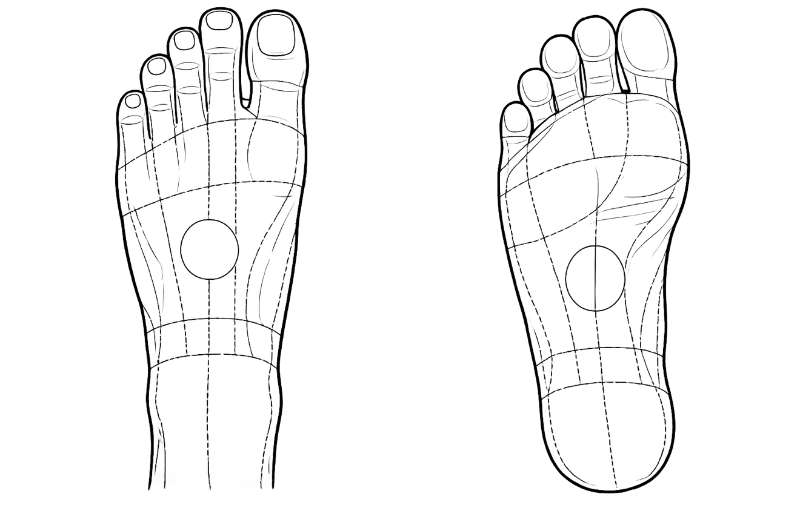
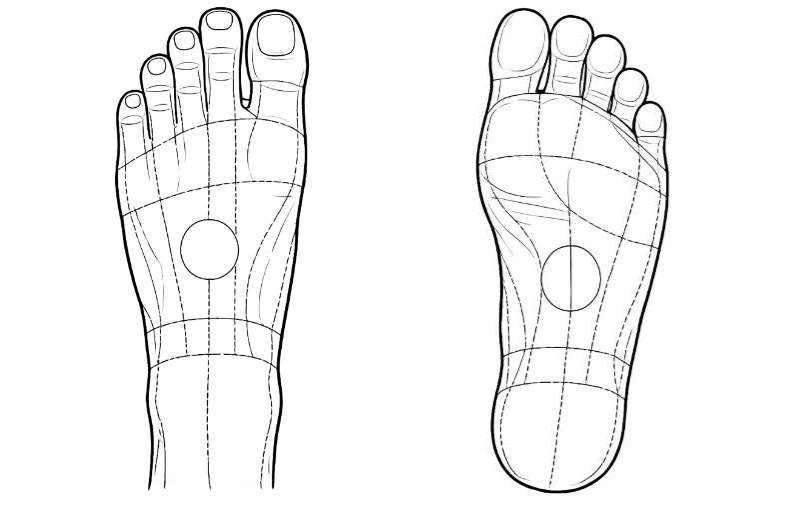
v262: pés com nova imagem e redesign dos ícones principais (estilo iOS)
Pés:
- Imagens pe-d.jpg e pe-e.jpg substituídas (usuário trocou pelas versões
  novas com layout anatomicamente correto).
- Análise dos dedos:
  • Vista 1 (lado esq da imagem): dedão à DIREITA, ordem [esq→dir]:
    mínimo, 4º, 3º, 2º, dedão.
  • Vista 2 (lado dir da imagem): dedão à ESQUERDA, ordem [esq→dir]:
    dedão, 2º, 3º, 4º, mínimo.
  Padrão é idêntico em ambos os pés (D e E).
- Pé D: v1=sola, v2=peito | Pé E: v1=peito, v2=sola
- POS_PE_D, POS_PE_E recalculados para o PDF/DOCX caírem nos dedos certos.

Ícones (estilo iOS 18+):
- 12 ícones principais redesenhados: 📋, 📍, 🧪, 💀, 🚗, 🖼, 📷, 👥, 🏠,
  📝, 🩹, ☠, 🔍, 🔒, 🔬.
- Novo padrão: squircle (rect rx=22) com gradiente vibrante por categoria
  (azul/vermelho/roxo/cinza/verde/laranja/amarelo/indigo/pink), símbolo
  branco sólido, sem outline cinza. Cantos super-arredondados.
- 🩸 (gota de sangue): cor vermelho-azul antiga removida; agora gota branca
  sobre squircle azul (água/fluido neutro) — sem associação visual com
  sangue agressivo.
- Ícones secundários (🛤, 🛣, 📄, 📂, 🏷, 🚦, 🌳, 🏢, 👤, 👔, 💾, ✏,
  🏥, 🏘) ainda no estilo antigo — pendente próxima iteração se aprovado.

Changed region(s): [[0.5938, 0.0, 0.875, 0.9802]]

diff --git a/src/App.jsx b/src/App.jsx
@@ -53,7 +53,7 @@ import html2pdf from "html2pdf.js";
 import JSZip from "jszip"; // v241: reintroduzido — saveCroquiDocx ainda usa (migração para fflate fica para a v242)
 import { zip as fflateZip, strToU8, unzipSync, strFromU8 } from "fflate";
 import DOMPurify from "dompurify"; // v242: sanitização extra antes do dangerouslySetInnerHTML do pdf-preview
-const APP_VERSION="v261-Xandroid";
+const APP_VERSION="v262-Xandroid";
 // v221+: storage migrado para IndexedDB. Não há mais cap de tamanho — o app
 // usa a quota real do dispositivo, lida em runtime via navigator.storage.estimate().
 // O valor abaixo é apenas um PLACEHOLDER inicial para o medidor de UI antes da
@@ -100,7 +100,7 @@ const IMG_H={anterior:"/img/anatomy/h-anterior.jpg",posterior:"/img/anatomy/h-po
 const IMG_M={anterior:"/img/anatomy/m-anterior.png",posterior:"/img/anatomy/m-posterior.png",latD:"/img/anatomy/m-lat-d.png",latE:"/img/anatomy/m-lat-e.png",cabeca:"/img/anatomy/m-cabeca.jpg"};
 const IMG_MAO_D="/img/anatomy/mao-d.png";
 const IMG_MAO_E="/img/anatomy/mao-e.png";
-const IMG_PE_D="/img/anatomy/pe-d.png";
+const IMG_PE_D="/img/anatomy/pe-d.jpg";
 const IMG_PE_E="/img/anatomy/pe-e.jpg";
 const bodyImgs=(sx)=>sx==="Feminino"?IMG_M:IMG_H;
 
@@ -591,39 +591,39 @@ class TabErrorBoundary extends React.Component{constructor(p){super(p);this.stat
 // Cada emoji das 7 tabs tem um SVG correspondente em estilo consistente:
 // fundo circular gradiente azul-marinho, glyph branco-cinza, detalhe azul ciano.
 const APP_ICONS={
-"📋":(<svg viewBox="0 0 100 100" width="100%" height="100%" style={{display:"block"}}><defs><radialGradient id="apg0" cx="50%" cy="40%"><stop offset="0%" stopColor="#1a4a7a"/><stop offset="100%" stopColor="#0a2540"/></radialGradient></defs><circle cx="50" cy="50" r="48" fill="url(#apg0)"/><rect x="32" y="26" width="36" height="48" rx="3" fill="#f8f8fa" stroke="#a1a1a6" strokeWidth="1"/><rect x="40" y="22" width="20" height="8" rx="2" fill="#5ac8fa"/><line x1="38" y1="40" x2="62" y2="40" stroke="#8e8e93" strokeWidth="1.5"/><line x1="38" y1="48" x2="62" y2="48" stroke="#8e8e93" strokeWidth="1.5"/><line x1="38" y1="56" x2="55" y2="56" stroke="#8e8e93" strokeWidth="1.5"/><line x1="38" y1="64" x2="58" y2="64" stroke="#8e8e93" strokeWidth="1.5"/></svg>),
-"📍":(<svg viewBox="0 0 100 100" width="100%" height="100%" style={{display:"block"}}><defs><radialGradient id="apg1" cx="50%" cy="40%"><stop offset="0%" stopColor="#1a4a7a"/><stop offset="100%" stopColor="#0a2540"/></radialGradient></defs><circle cx="50" cy="50" r="48" fill="url(#apg1)"/><path d="M50 22 C38 22 30 30 30 42 C30 56 50 76 50 76 C50 76 70 56 70 42 C70 30 62 22 50 22 Z" fill="#f8f8fa" stroke="#a1a1a6" strokeWidth="1"/><circle cx="50" cy="42" r="7" fill="#5ac8fa"/></svg>),
-"🧪":(<svg viewBox="0 0 100 100" width="100%" height="100%" style={{display:"block"}}><defs><radialGradient id="apg2" cx="50%" cy="40%"><stop offset="0%" stopColor="#1a4a7a"/><stop offset="100%" stopColor="#0a2540"/></radialGradient><linearGradient id="apg2L" x1="0%" y1="0%" x2="0%" y2="100%"><stop offset="0%" stopColor="#7ad6fb"/><stop offset="100%" stopColor="#2aa8e0"/></linearGradient></defs><circle cx="50" cy="50" r="48" fill="url(#apg2)"/><path d="M38 20 L62 20 L62 28 L58 28 L58 72 A10 10 0 0 1 42 72 L42 28 L38 28 Z" fill="#ffffff" stroke="#0a2540" strokeWidth="1.5"/><path d="M42 50 L58 50 L58 72 A10 10 0 0 1 42 72 Z" fill="url(#apg2L)"/><ellipse cx="50" cy="52" rx="8" ry="1.5" fill="#ffffff" opacity="0.6"/><circle cx="48" cy="64" r="1.8" fill="#ffffff" opacity="0.8"/><circle cx="53" cy="60" r="1.2" fill="#ffffff" opacity="0.7"/><circle cx="51" cy="68" r="1" fill="#ffffff" opacity="0.6"/></svg>),
+"📋":(<svg viewBox="0 0 100 100" width="100%" height="100%" style={{display:"block"}}><defs><linearGradient id="apg0" x1="0%" y1="0%" x2="0%" y2="100%"><stop offset="0%" stopColor="#5AC8FA"/><stop offset="100%" stopColor="#0A84FF"/></linearGradient></defs><rect x="6" y="6" width="88" height="88" rx="22" fill="url(#apg0)"/><rect x="30" y="24" width="40" height="54" rx="6" fill="#fff"/><rect x="40" y="20" width="20" height="10" rx="3" fill="#fff" stroke="#0A84FF" strokeWidth="2"/><line x1="38" y1="42" x2="62" y2="42" stroke="#0A84FF" strokeWidth="2.5" strokeLinecap="round"/><line x1="38" y1="52" x2="62" y2="52" stroke="#0A84FF" strokeWidth="2.5" strokeLinecap="round"/><line x1="38" y1="62" x2="56" y2="62" stroke="#0A84FF" strokeWidth="2.5" strokeLinecap="round"/></svg>),
+"📍":(<svg viewBox="0 0 100 100" width="100%" height="100%" style={{display:"block"}}><defs><linearGradient id="apg1" x1="0%" y1="0%" x2="0%" y2="100%"><stop offset="0%" stopColor="#FF453A"/><stop offset="100%" stopColor="#C7000B"/></linearGradient></defs><rect x="6" y="6" width="88" height="88" rx="22" fill="url(#apg1)"/><path d="M50 18 C36 18 26 28 26 42 C26 58 50 82 50 82 C50 82 74 58 74 42 C74 28 64 18 50 18 Z" fill="#fff"/><circle cx="50" cy="42" r="8" fill="#FF453A"/></svg>),
+"🧪":(<svg viewBox="0 0 100 100" width="100%" height="100%" style={{display:"block"}}><defs><linearGradient id="apg2" x1="0%" y1="0%" x2="0%" y2="100%"><stop offset="0%" stopColor="#BF5AF2"/><stop offset="100%" stopColor="#8944AB"/></linearGradient></defs><rect x="6" y="6" width="88" height="88" rx="22" fill="url(#apg2)"/><path d="M40 16 L60 16 L60 26 L56 26 L56 70 A12 12 0 0 1 44 78 A12 12 0 0 1 32 70 Q32 62 36 56 L44 26 L40 26 Z" fill="#fff"/><path d="M34 56 L66 56 L62 70 A12 12 0 0 1 50 78 A12 12 0 0 1 38 70 Z" fill="#FFD60A" opacity="0.85"/><circle cx="46" cy="66" r="2" fill="#fff" opacity="0.8"/><circle cx="54" cy="62" r="1.5" fill="#fff" opacity="0.7"/></svg>),
 "🏥":(<svg viewBox="0 0 100 100" width="100%" height="100%" style={{display:"block"}}><defs><radialGradient id="apg3" cx="50%" cy="40%"><stop offset="0%" stopColor="#1a4a7a"/><stop offset="100%" stopColor="#0a2540"/></radialGradient></defs><circle cx="50" cy="50" r="48" fill="url(#apg3)"/><path d="M50 22 C36 22 26 32 26 47 C26 57 31 64 38 68 L38 76 Q38 80 42 80 L44 80 L44 78 C44 76 45 75 47 75 C49 75 50 76 50 78 L50 80 L56 80 L56 78 C56 76 57 75 59 75 C61 75 62 76 62 78 L62 80 L64 80 Q68 80 68 76 L68 68 C75 64 80 57 80 47 C80 32 70 22 56 22 Z" fill="#f8f8fa" stroke="#a1a1a6" strokeWidth="1"/><ellipse cx="41" cy="48" rx="6" ry="7" fill="#0a2540"/><ellipse cx="61" cy="48" rx="6" ry="7" fill="#0a2540"/><circle cx="39" cy="45" r="1.4" fill="#5ac8fa"/><circle cx="59" cy="45" r="1.4" fill="#5ac8fa"/><path d="M51 56 L48 64 L51 66 L54 64 Z" fill="#0a2540"/></svg>),
-"🚗":(<svg viewBox="0 0 100 100" width="100%" height="100%" style={{display:"block"}}><defs><radialGradient id="apg4" cx="50%" cy="40%"><stop offset="0%" stopColor="#1a4a7a"/><stop offset="100%" stopColor="#0a2540"/></radialGradient></defs><circle cx="50" cy="50" r="48" fill="url(#apg4)"/><path d="M24 58 L30 44 Q32 40 37 40 L63 40 Q68 40 70 44 L76 58 L76 66 Q76 68 74 68 L72 68 Q72 72 68 72 Q64 72 64 68 L36 68 Q36 72 32 72 Q28 72 28 68 L26 68 Q24 68 24 66 Z" fill="#ffffff" stroke="#0a2540" strokeWidth="1.8"/><path d="M32 56 L34 46 Q35 44 38 44 L62 44 Q65 44 66 46 L68 56 Z" fill="#5ac8fa"/><line x1="50" y1="44" x2="50" y2="56" stroke="#ffffff" strokeWidth="1.5" opacity="0.8"/><circle cx="33" cy="66" r="5" fill="#0a2540" stroke="#ffffff" strokeWidth="1.5"/><circle cx="33" cy="66" r="2" fill="#a1a1a6"/><circle cx="67" cy="66" r="5" fill="#0a2540" stroke="#ffffff" strokeWidth="1.5"/><circle cx="67" cy="66" r="2" fill="#a1a1a6"/><rect x="26" y="56" width="4" height="3" rx="1" fill="#ffcc00"/><rect x="70" y="56" width="4" height="3" rx="1" fill="#ffcc00"/></svg>),
+"🚗":(<svg viewBox="0 0 100 100" width="100%" height="100%" style={{display:"block"}}><defs><linearGradient id="apg4" x1="0%" y1="0%" x2="0%" y2="100%"><stop offset="0%" stopColor="#34C759"/><stop offset="100%" stopColor="#248A3D"/></linearGradient></defs><rect x="6" y="6" width="88" height="88" rx="22" fill="url(#apg4)"/><path d="M22 58 L28 42 Q30 38 36 38 L64 38 Q70 38 72 42 L78 58 L78 68 Q78 72 74 72 L72 72 Q72 76 68 76 Q64 76 64 72 L36 72 Q36 76 32 76 Q28 76 28 72 L26 72 Q22 72 22 68 Z" fill="#fff"/><path d="M30 56 L34 44 Q35 42 38 42 L62 42 Q65 42 66 44 L70 56 Z" fill="#34C759"/><circle cx="34" cy="68" r="5" fill="#248A3D"/><circle cx="66" cy="68" r="5" fill="#248A3D"/></svg>),
 "💾":(<svg viewBox="0 0 100 100" width="100%" height="100%" style={{display:"block"}}><defs><radialGradient id="apg5" cx="50%" cy="40%"><stop offset="0%" stopColor="#1a4a7a"/><stop offset="100%" stopColor="#0a2540"/></radialGradient></defs><circle cx="50" cy="50" r="48" fill="url(#apg5)"/><path d="M50 24 L50 58" stroke="#f8f8fa" strokeWidth="5" strokeLinecap="round"/><path d="M36 48 L50 62 L64 48" fill="none" stroke="#5ac8fa" strokeWidth="5" strokeLinecap="round" strokeLinejoin="round"/><rect x="28" y="68" width="44" height="8" rx="2" fill="#f8f8fa"/></svg>),
 "✏":(<svg viewBox="0 0 100 100" width="100%" height="100%" style={{display:"block"}}><defs><radialGradient id="apg6" cx="50%" cy="40%"><stop offset="0%" stopColor="#1a4a7a"/><stop offset="100%" stopColor="#0a2540"/></radialGradient></defs><circle cx="50" cy="50" r="48" fill="url(#apg6)"/><path d="M62 24 L74 36 L38 72 L26 76 L30 64 Z" fill="#f8f8fa" stroke="#a1a1a6" strokeWidth="1"/><path d="M62 24 L74 36 L68 42 L56 30 Z" fill="#5ac8fa"/><path d="M30 64 L26 76 L38 72 Z" fill="#0a2540"/></svg>),
 "🏢":(<svg viewBox="0 0 100 100" width="100%" height="100%" style={{display:"block"}}><defs><radialGradient id="apg7" cx="50%" cy="40%"><stop offset="0%" stopColor="#1a4a7a"/><stop offset="100%" stopColor="#0a2540"/></radialGradient></defs><circle cx="50" cy="50" r="48" fill="url(#apg7)"/><rect x="30" y="26" width="40" height="54" fill="#f8f8fa" stroke="#a1a1a6" strokeWidth="1"/><rect x="34" y="32" width="6" height="6" fill="#5ac8fa"/><rect x="44" y="32" width="6" height="6" fill="#5ac8fa"/><rect x="54" y="32" width="6" height="6" fill="#5ac8fa"/><rect x="34" y="42" width="6" height="6" fill="#5ac8fa"/><rect x="44" y="42" width="6" height="6" fill="#5ac8fa"/><rect x="54" y="42" width="6" height="6" fill="#5ac8fa"/><rect x="34" y="52" width="6" height="6" fill="#5ac8fa"/><rect x="44" y="52" width="6" height="6" fill="#5ac8fa"/><rect x="54" y="52" width="6" height="6" fill="#5ac8fa"/><rect x="44" y="66" width="12" height="14" fill="#0a2540"/></svg>),
-"📷":(<svg viewBox="0 0 100 100" width="100%" height="100%" style={{display:"block"}}><defs><radialGradient id="apg8" cx="50%" cy="40%"><stop offset="0%" stopColor="#1a4a7a"/><stop offset="100%" stopColor="#0a2540"/></radialGradient></defs><circle cx="50" cy="50" r="48" fill="url(#apg8)"/><path d="M20 38 L30 38 L34 30 L66 30 L70 38 L80 38 Q82 38 82 40 L82 72 Q82 74 80 74 L20 74 Q18 74 18 72 L18 40 Q18 38 20 38 Z" fill="#f8f8fa" stroke="#a1a1a6" strokeWidth="1"/><circle cx="50" cy="54" r="13" fill="#0a2540"/><circle cx="50" cy="54" r="9" fill="#5ac8fa" opacity="0.85"/><circle cx="46" cy="50" r="3" fill="#fff" opacity="0.7"/><circle cx="72" cy="43" r="2" fill="#5ac8fa"/></svg>),
-"☠":(<svg viewBox="0 0 100 100" width="100%" height="100%" style={{display:"block"}}><defs><radialGradient id="apg9" cx="50%" cy="40%"><stop offset="0%" stopColor="#1a4a7a"/><stop offset="100%" stopColor="#0a2540"/></radialGradient></defs><circle cx="50" cy="50" r="48" fill="url(#apg9)"/><path d="M50 22 C36 22 26 32 26 47 C26 57 31 64 38 68 L38 74 L44 74 L44 72 C44 70 46 69 48 69 C50 69 52 70 52 72 L52 74 L58 74 L58 72 C58 70 60 69 62 69 C64 69 66 70 66 72 L66 74 L72 74 L72 68 C79 64 84 57 84 47 C84 32 74 22 60 22 Z" fill="#f8f8fa" stroke="#a1a1a6" strokeWidth="1"/><ellipse cx="41" cy="48" rx="6" ry="7" fill="#0a2540"/><ellipse cx="59" cy="48" rx="6" ry="7" fill="#0a2540"/><path d="M48 56 L45 64 L50 66 L55 64 L52 56 Z" fill="#0a2540"/><path d="M20 82 L80 82 M22 78 L26 86 M78 78 L74 86 M20 78 L24 86 M76 78 L80 86" stroke="#f8f8fa" strokeWidth="2" fill="none" strokeLinecap="round" opacity="0.7"/></svg>),
-"💀":(<svg viewBox="0 0 100 100" width="100%" height="100%" style={{display:"block"}}><defs><radialGradient id="apg10" cx="50%" cy="40%"><stop offset="0%" stopColor="#1a4a7a"/><stop offset="100%" stopColor="#0a2540"/></radialGradient></defs><circle cx="50" cy="50" r="48" fill="url(#apg10)"/><path d="M50 22 C36 22 26 32 26 47 C26 57 31 64 38 68 L38 76 Q38 80 42 80 L44 80 L44 78 C44 76 45 75 47 75 C49 75 50 76 50 78 L50 80 L56 80 L56 78 C56 76 57 75 59 75 C61 75 62 76 62 78 L62 80 L64 80 Q68 80 68 76 L68 68 C75 64 80 57 80 47 C80 32 70 22 56 22 Z" fill="#f8f8fa" stroke="#a1a1a6" strokeWidth="1"/><ellipse cx="41" cy="48" rx="6" ry="7" fill="#0a2540"/><ellipse cx="61" cy="48" rx="6" ry="7" fill="#0a2540"/><circle cx="39" cy="45" r="1.4" fill="#5ac8fa"/><circle cx="59" cy="45" r="1.4" fill="#5ac8fa"/><path d="M51 56 L48 64 L51 66 L54 64 Z" fill="#0a2540"/></svg>),
+"📷":(<svg viewBox="0 0 100 100" width="100%" height="100%" style={{display:"block"}}><defs><linearGradient id="apg8" x1="0%" y1="0%" x2="0%" y2="100%"><stop offset="0%" stopColor="#8E8E93"/><stop offset="100%" stopColor="#48484A"/></linearGradient></defs><rect x="6" y="6" width="88" height="88" rx="22" fill="url(#apg8)"/><path d="M16 36 L30 36 L34 26 L66 26 L70 36 L84 36 Q88 36 88 40 L88 76 Q88 80 84 80 L16 80 Q12 80 12 76 L12 40 Q12 36 16 36 Z" fill="#fff"/><circle cx="50" cy="56" r="14" fill="#48484A"/><circle cx="50" cy="56" r="10" fill="#8E8E93"/><circle cx="46" cy="52" r="3" fill="#fff" opacity="0.6"/><circle cx="76" cy="44" r="2.5" fill="#FF9F0A"/></svg>),
+"☠":(<svg viewBox="0 0 100 100" width="100%" height="100%" style={{display:"block"}}><defs><linearGradient id="apg9" x1="0%" y1="0%" x2="0%" y2="100%"><stop offset="0%" stopColor="#48484A"/><stop offset="100%" stopColor="#1C1C1E"/></linearGradient></defs><rect x="6" y="6" width="88" height="88" rx="22" fill="url(#apg9)"/><path d="M50 16 C34 16 22 28 22 44 C22 54 28 62 36 66 L36 74 L42 74 L42 72 C42 70 44 69 46 69 C48 69 50 70 50 72 L50 74 L56 74 L56 72 C56 70 58 69 60 69 C62 69 64 70 64 72 L64 74 L70 74 L70 66 C78 62 84 54 84 44 C84 28 72 16 56 16 Z" fill="#fff"/><ellipse cx="40" cy="46" rx="6" ry="8" fill="#1C1C1E"/><ellipse cx="60" cy="46" rx="6" ry="8" fill="#1C1C1E"/><path d="M48 54 L44 64 L50 66 L56 64 L52 54 Z" fill="#1C1C1E"/><path d="M20 82 L80 82" stroke="#fff" strokeWidth="3" strokeLinecap="round" opacity="0.8"/><path d="M28 80 L24 88 M72 80 L76 88" stroke="#fff" strokeWidth="2.5" fill="none" strokeLinecap="round" opacity="0.7"/></svg>),
+"💀":(<svg viewBox="0 0 100 100" width="100%" height="100%" style={{display:"block"}}><defs><linearGradient id="apg10" x1="0%" y1="0%" x2="0%" y2="100%"><stop offset="0%" stopColor="#8E8E93"/><stop offset="100%" stopColor="#48484A"/></linearGradient></defs><rect x="6" y="6" width="88" height="88" rx="22" fill="url(#apg10)"/><path d="M50 18 C34 18 22 30 22 46 C22 56 28 64 36 68 L36 78 Q36 82 40 82 L44 82 L44 78 C44 76 46 75 48 75 C50 75 50 76 50 78 L50 82 L56 82 L56 78 C56 76 56 75 58 75 C60 75 62 76 62 78 L62 82 L66 82 Q70 82 70 78 L70 68 C78 64 84 56 84 46 C84 30 72 18 56 18 Z" fill="#fff"/><ellipse cx="40" cy="48" rx="6" ry="8" fill="#48484A"/><ellipse cx="60" cy="48" rx="6" ry="8" fill="#48484A"/><path d="M52 60 L46 68 L50 70 L54 68 Z" fill="#48484A"/></svg>),
 "👤":(<svg viewBox="0 0 100 100" width="100%" height="100%" style={{display:"block"}}><defs><radialGradient id="apg11" cx="50%" cy="40%"><stop offset="0%" stopColor="#1a4a7a"/><stop offset="100%" stopColor="#0a2540"/></radialGradient></defs><circle cx="50" cy="50" r="48" fill="url(#apg11)"/><circle cx="50" cy="38" r="12" fill="#f8f8fa" stroke="#a1a1a6" strokeWidth="1"/><path d="M26 82 C26 68 38 58 50 58 C62 58 74 68 74 82 L74 84 L26 84 Z" fill="#f8f8fa" stroke="#a1a1a6" strokeWidth="1"/><circle cx="50" cy="38" r="3" fill="#5ac8fa" opacity="0.4"/></svg>),
-"👥":(<svg viewBox="0 0 100 100" width="100%" height="100%" style={{display:"block"}}><defs><radialGradient id="apg12" cx="50%" cy="40%"><stop offset="0%" stopColor="#1a4a7a"/><stop offset="100%" stopColor="#0a2540"/></radialGradient></defs><circle cx="50" cy="50" r="48" fill="url(#apg12)"/><circle cx="34" cy="40" r="9" fill="#f8f8fa" stroke="#a1a1a6" strokeWidth="1"/><circle cx="62" cy="38" r="10" fill="#5ac8fa" stroke="#a1a1a6" strokeWidth="1"/><path d="M18 76 C18 66 26 58 34 58 C40 58 45 62 48 66 L48 80 L18 80 Z" fill="#f8f8fa" stroke="#a1a1a6" strokeWidth="1"/><path d="M44 80 C44 68 52 58 62 58 C74 58 82 68 82 80 L82 82 L44 82 Z" fill="#5ac8fa" opacity="0.85" stroke="#a1a1a6" strokeWidth="1"/></svg>),
+"👥":(<svg viewBox="0 0 100 100" width="100%" height="100%" style={{display:"block"}}><defs><linearGradient id="apg12" x1="0%" y1="0%" x2="0%" y2="100%"><stop offset="0%" stopColor="#5E5CE6"/><stop offset="100%" stopColor="#3634A3"/></linearGradient></defs><rect x="6" y="6" width="88" height="88" rx="22" fill="url(#apg12)"/><circle cx="36" cy="38" r="11" fill="#fff"/><circle cx="64" cy="38" r="11" fill="#fff" opacity="0.85"/><path d="M16 78 C16 66 25 56 36 56 C45 56 52 60 56 66 L56 84 L16 84 Z" fill="#fff"/><path d="M44 84 C44 70 53 60 64 60 C76 60 84 70 84 84 Z" fill="#fff" opacity="0.85"/></svg>),
 "👔":(<svg viewBox="0 0 100 100" width="100%" height="100%" style={{display:"block"}}><defs><radialGradient id="apg13" cx="50%" cy="40%"><stop offset="0%" stopColor="#1a4a7a"/><stop offset="100%" stopColor="#0a2540"/></radialGradient></defs><circle cx="50" cy="50" r="48" fill="url(#apg13)"/><path d="M36 22 L50 30 L64 22 L72 34 L72 82 L28 82 L28 34 Z" fill="#f8f8fa" stroke="#a1a1a6" strokeWidth="1"/><path d="M44 22 L50 40 L56 22 L50 30 Z" fill="#5ac8fa"/><circle cx="50" cy="50" r="2" fill="#0a2540"/><circle cx="50" cy="60" r="2" fill="#0a2540"/><circle cx="50" cy="70" r="2" fill="#0a2540"/></svg>),
-"🏠":(<svg viewBox="0 0 100 100" width="100%" height="100%" style={{display:"block"}}><defs><radialGradient id="apg14" cx="50%" cy="40%"><stop offset="0%" stopColor="#1a4a7a"/><stop offset="100%" stopColor="#0a2540"/></radialGradient></defs><circle cx="50" cy="50" r="48" fill="url(#apg14)"/><path d="M50 22 L78 44 L78 80 L22 80 L22 44 Z" fill="#f8f8fa" stroke="#a1a1a6" strokeWidth="1"/><path d="M50 22 L20 44 L22 46 L50 26 L78 46 L80 44 Z" fill="#5ac8fa"/><rect x="42" y="58" width="16" height="22" fill="#0a2540"/><rect x="30" y="52" width="8" height="8" fill="#5ac8fa" opacity="0.7"/><rect x="62" y="52" width="8" height="8" fill="#5ac8fa" opacity="0.7"/></svg>),
+"🏠":(<svg viewBox="0 0 100 100" width="100%" height="100%" style={{display:"block"}}><defs><linearGradient id="apg14" x1="0%" y1="0%" x2="0%" y2="100%"><stop offset="0%" stopColor="#FF9F0A"/><stop offset="100%" stopColor="#C75900"/></linearGradient></defs><rect x="6" y="6" width="88" height="88" rx="22" fill="url(#apg14)"/><path d="M50 16 L82 44 L82 84 L18 84 L18 44 Z" fill="#fff"/><path d="M50 16 L14 46 L18 50 L50 24 L82 50 L86 46 Z" fill="#fff"/><rect x="42" y="60" width="16" height="24" rx="2" fill="#C75900"/><rect x="28" y="52" width="10" height="10" rx="1" fill="#FFD60A"/><rect x="62" y="52" width="10" height="10" rx="1" fill="#FFD60A"/></svg>),
 "🏘":(<svg viewBox="0 0 100 100" width="100%" height="100%" style={{display:"block"}}><defs><radialGradient id="apg15" cx="50%" cy="40%"><stop offset="0%" stopColor="#1a4a7a"/><stop offset="100%" stopColor="#0a2540"/></radialGradient></defs><circle cx="50" cy="50" r="48" fill="url(#apg15)"/><path d="M18 80 L18 50 L36 36 L54 50 L54 80 Z" fill="#f8f8fa" stroke="#a1a1a6" strokeWidth="1"/><path d="M46 80 L46 56 L62 42 L78 56 L78 80 Z" fill="#5ac8fa" opacity="0.85" stroke="#a1a1a6" strokeWidth="1"/><rect x="28" y="62" width="6" height="10" fill="#0a2540"/><rect x="60" y="66" width="6" height="10" fill="#0a2540"/></svg>),
 "🌳":(<svg viewBox="0 0 100 100" width="100%" height="100%" style={{display:"block"}}><defs><radialGradient id="apg16" cx="50%" cy="40%"><stop offset="0%" stopColor="#1a4a7a"/><stop offset="100%" stopColor="#0a2540"/></radialGradient></defs><circle cx="50" cy="50" r="48" fill="url(#apg16)"/><ellipse cx="50" cy="40" rx="22" ry="20" fill="#5ac8fa" opacity="0.9" stroke="#a1a1a6" strokeWidth="1"/><ellipse cx="36" cy="46" rx="10" ry="10" fill="#5ac8fa" opacity="0.75"/><ellipse cx="64" cy="46" rx="10" ry="10" fill="#5ac8fa" opacity="0.75"/><rect x="46" y="58" width="8" height="24" fill="#f8f8fa" stroke="#a1a1a6" strokeWidth="1"/></svg>),
 "🛤":(<svg viewBox="0 0 100 100" width="100%" height="100%" style={{display:"block"}}><defs><radialGradient id="apg17" cx="50%" cy="40%"><stop offset="0%" stopColor="#1a4a7a"/><stop offset="100%" stopColor="#0a2540"/></radialGradient></defs><circle cx="50" cy="50" r="48" fill="url(#apg17)"/><path d="M32 20 L24 82" stroke="#f8f8fa" strokeWidth="4" strokeLinecap="round"/><path d="M68 20 L76 82" stroke="#f8f8fa" strokeWidth="4" strokeLinecap="round"/><rect x="26" y="30" width="48" height="3" fill="#5ac8fa"/><rect x="26" y="46" width="48" height="3" fill="#5ac8fa"/><rect x="26" y="62" width="48" height="3" fill="#5ac8fa"/></svg>),
 "🛣":(<svg viewBox="0 0 100 100" width="100%" height="100%" style={{display:"block"}}><defs><radialGradient id="apg18" cx="50%" cy="40%"><stop offset="0%" stopColor="#1a4a7a"/><stop offset="100%" stopColor="#0a2540"/></radialGradient></defs><circle cx="50" cy="50" r="48" fill="url(#apg18)"/><path d="M38 20 L30 82 L70 82 L62 20 Z" fill="#f8f8fa" stroke="#a1a1a6" strokeWidth="1"/><path d="M50 24 L50 30 M50 40 L50 48 M50 58 L50 66 M50 76 L50 82" stroke="#5ac8fa" strokeWidth="3" strokeLinecap="round"/></svg>),
 "📄":(<svg viewBox="0 0 100 100" width="100%" height="100%" style={{display:"block"}}><defs><radialGradient id="apg19" cx="50%" cy="40%"><stop offset="0%" stopColor="#1a4a7a"/><stop offset="100%" stopColor="#0a2540"/></radialGradient></defs><circle cx="50" cy="50" r="48" fill="url(#apg19)"/><path d="M30 20 L58 20 L72 34 L72 82 L30 82 Z" fill="#f8f8fa" stroke="#a1a1a6" strokeWidth="1"/><path d="M58 20 L58 34 L72 34 Z" fill="#5ac8fa"/><line x1="38" y1="44" x2="64" y2="44" stroke="#8e8e93" strokeWidth="1.8"/><line x1="38" y1="54" x2="64" y2="54" stroke="#8e8e93" strokeWidth="1.8"/><line x1="38" y1="64" x2="56" y2="64" stroke="#8e8e93" strokeWidth="1.8"/><line x1="38" y1="74" x2="60" y2="74" stroke="#8e8e93" strokeWidth="1.8"/></svg>),
 "📂":(<svg viewBox="0 0 100 100" width="100%" height="100%" style={{display:"block"}}><defs><radialGradient id="apg20" cx="50%" cy="40%"><stop offset="0%" stopColor="#1a4a7a"/><stop offset="100%" stopColor="#0a2540"/></radialGradient></defs><circle cx="50" cy="50" r="48" fill="url(#apg20)"/><path d="M20 32 L40 32 L46 38 L80 38 L80 76 L20 76 Z" fill="#f8f8fa" stroke="#a1a1a6" strokeWidth="1"/><path d="M22 44 L78 44 L74 78 L26 78 Z" fill="#5ac8fa" opacity="0.7" stroke="#a1a1a6" strokeWidth="0.5"/></svg>),
-"📝":(<svg viewBox="0 0 100 100" width="100%" height="100%" style={{display:"block"}}><defs><radialGradient id="apg21" cx="50%" cy="40%"><stop offset="0%" stopColor="#1a4a7a"/><stop offset="100%" stopColor="#0a2540"/></radialGradient></defs><circle cx="50" cy="50" r="48" fill="url(#apg21)"/><rect x="26" y="22" width="44" height="56" rx="2" fill="#f8f8fa" stroke="#a1a1a6" strokeWidth="1"/><rect x="24" y="30" width="8" height="3" fill="#5ac8fa"/><rect x="24" y="42" width="8" height="3" fill="#5ac8fa"/><rect x="24" y="54" width="8" height="3" fill="#5ac8fa"/><rect x="24" y="66" width="8" height="3" fill="#5ac8fa"/><line x1="36" y1="36" x2="62" y2="36" stroke="#8e8e93" strokeWidth="1.5"/><line x1="36" y1="46" x2="62" y2="46" stroke="#8e8e93" strokeWidth="1.5"/><line x1="36" y1="56" x2="58" y2="56" stroke="#8e8e93" strokeWidth="1.5"/><line x1="36" y1="66" x2="54" y2="66" stroke="#8e8e93" strokeWidth="1.5"/><path d="M68 64 L76 56 L82 62 L74 70 Z" fill="#5ac8fa"/><path d="M68 64 L74 70 L70 74 L64 68 Z" fill="#0a2540"/></svg>),
+"📝":(<svg viewBox="0 0 100 100" width="100%" height="100%" style={{display:"block"}}><defs><linearGradient id="apg21" x1="0%" y1="0%" x2="0%" y2="100%"><stop offset="0%" stopColor="#FFD60A"/><stop offset="100%" stopColor="#B58900"/></linearGradient></defs><rect x="6" y="6" width="88" height="88" rx="22" fill="url(#apg21)"/><rect x="22" y="20" width="48" height="60" rx="6" fill="#fff"/><line x1="32" y1="34" x2="60" y2="34" stroke="#B58900" strokeWidth="2.5" strokeLinecap="round"/><line x1="32" y1="44" x2="60" y2="44" stroke="#B58900" strokeWidth="2.5" strokeLinecap="round"/><line x1="32" y1="54" x2="56" y2="54" stroke="#B58900" strokeWidth="2.5" strokeLinecap="round"/><line x1="32" y1="64" x2="52" y2="64" stroke="#B58900" strokeWidth="2.5" strokeLinecap="round"/><path d="M62 56 L78 40 L86 48 L70 64 Z" fill="#fff" stroke="#B58900" strokeWidth="2"/><path d="M62 56 L70 64 L66 70 L58 62 Z" fill="#B58900"/></svg>),
 "🏷":(<svg viewBox="0 0 100 100" width="100%" height="100%" style={{display:"block"}}><defs><radialGradient id="apg22" cx="50%" cy="40%"><stop offset="0%" stopColor="#1a4a7a"/><stop offset="100%" stopColor="#0a2540"/></radialGradient></defs><circle cx="50" cy="50" r="48" fill="url(#apg22)"/><path d="M24 38 L52 24 L80 38 L80 58 L52 76 L24 58 Z" fill="#f8f8fa" stroke="#a1a1a6" strokeWidth="1"/><circle cx="36" cy="44" r="5" fill="#0a2540"/><circle cx="36" cy="44" r="2" fill="#5ac8fa"/><text x="56" y="54" fontFamily="-apple-system" fontSize="12" fontWeight="800" fill="#0a2540">42</text></svg>),
-"🖼":(<svg viewBox="0 0 100 100" width="100%" height="100%" style={{display:"block"}}><defs><radialGradient id="apg23" cx="50%" cy="40%"><stop offset="0%" stopColor="#1a4a7a"/><stop offset="100%" stopColor="#0a2540"/></radialGradient></defs><circle cx="50" cy="50" r="48" fill="url(#apg23)"/><rect x="22" y="26" width="56" height="44" rx="2" fill="#f8f8fa" stroke="#a1a1a6" strokeWidth="1"/><rect x="26" y="30" width="48" height="36" fill="#5ac8fa" opacity="0.3"/><circle cx="38" cy="42" r="5" fill="#5ac8fa"/><path d="M28 62 L40 50 L52 58 L64 44 L72 60 L72 66 L28 66 Z" fill="#0a2540"/></svg>),
-"🔍":(<svg viewBox="0 0 100 100" width="100%" height="100%" style={{display:"block"}}><defs><radialGradient id="apg24" cx="50%" cy="40%"><stop offset="0%" stopColor="#1a4a7a"/><stop offset="100%" stopColor="#0a2540"/></radialGradient></defs><circle cx="50" cy="50" r="48" fill="url(#apg24)"/><circle cx="42" cy="42" r="18" fill="none" stroke="#f8f8fa" strokeWidth="5"/><circle cx="42" cy="42" r="14" fill="#5ac8fa" opacity="0.4"/><path d="M56 56 L74 74" stroke="#f8f8fa" strokeWidth="6" strokeLinecap="round"/></svg>),
-"🔒":(<svg viewBox="0 0 100 100" width="100%" height="100%" style={{display:"block"}}><defs><radialGradient id="apg25" cx="50%" cy="40%"><stop offset="0%" stopColor="#1a4a7a"/><stop offset="100%" stopColor="#0a2540"/></radialGradient></defs><circle cx="50" cy="50" r="48" fill="url(#apg25)"/><path d="M36 42 L36 34 C36 26 42 20 50 20 C58 20 64 26 64 34 L64 42" fill="none" stroke="#f8f8fa" strokeWidth="5" strokeLinecap="round"/><rect x="28" y="42" width="44" height="38" rx="4" fill="#f8f8fa" stroke="#a1a1a6" strokeWidth="1"/><circle cx="50" cy="58" r="5" fill="#5ac8fa"/><rect x="48" y="60" width="4" height="10" fill="#5ac8fa"/></svg>),
-"🔬":(<svg viewBox="0 0 100 100" width="100%" height="100%" style={{display:"block"}}><defs><radialGradient id="apg26" cx="50%" cy="40%"><stop offset="0%" stopColor="#1a4a7a"/><stop offset="100%" stopColor="#0a2540"/></radialGradient></defs><circle cx="50" cy="50" r="48" fill="url(#apg26)"/><rect x="46" y="22" width="12" height="26" rx="2" fill="#f8f8fa" stroke="#a1a1a6" strokeWidth="1"/><circle cx="52" cy="48" r="6" fill="#5ac8fa"/><rect x="40" y="54" width="20" height="4" fill="#f8f8fa"/><rect x="30" y="68" width="44" height="6" fill="#f8f8fa" stroke="#a1a1a6" strokeWidth="1"/><rect x="36" y="58" width="28" height="12" fill="#f8f8fa" stroke="#a1a1a6" strokeWidth="1"/></svg>),
+"🖼":(<svg viewBox="0 0 100 100" width="100%" height="100%" style={{display:"block"}}><defs><linearGradient id="apg23" x1="0%" y1="0%" x2="0%" y2="100%"><stop offset="0%" stopColor="#FF9F0A"/><stop offset="100%" stopColor="#C75900"/></linearGradient></defs><rect x="6" y="6" width="88" height="88" rx="22" fill="url(#apg23)"/><rect x="20" y="24" width="60" height="48" rx="6" fill="#fff"/><circle cx="34" cy="40" r="6" fill="#FFD60A"/><path d="M22 64 L40 46 L54 56 L66 42 L78 60 L78 68 L22 68 Z" fill="#FF9F0A"/></svg>),
+"🔍":(<svg viewBox="0 0 100 100" width="100%" height="100%" style={{display:"block"}}><defs><linearGradient id="apg24" x1="0%" y1="0%" x2="0%" y2="100%"><stop offset="0%" stopColor="#8E8E93"/><stop offset="100%" stopColor="#48484A"/></linearGradient></defs><rect x="6" y="6" width="88" height="88" rx="22" fill="url(#apg24)"/><circle cx="42" cy="42" r="18" fill="none" stroke="#fff" strokeWidth="6"/><circle cx="42" cy="42" r="14" fill="#fff" opacity="0.25"/><path d="M58 58 L78 78" stroke="#fff" strokeWidth="7" strokeLinecap="round"/></svg>),
+"🔒":(<svg viewBox="0 0 100 100" width="100%" height="100%" style={{display:"block"}}><defs><linearGradient id="apg25" x1="0%" y1="0%" x2="0%" y2="100%"><stop offset="0%" stopColor="#FFD60A"/><stop offset="100%" stopColor="#B58900"/></linearGradient></defs><rect x="6" y="6" width="88" height="88" rx="22" fill="url(#apg25)"/><path d="M34 44 L34 32 C34 24 41 18 50 18 C59 18 66 24 66 32 L66 44" fill="none" stroke="#fff" strokeWidth="6" strokeLinecap="round"/><rect x="24" y="44" width="52" height="42" rx="6" fill="#fff"/><circle cx="50" cy="60" r="6" fill="#B58900"/><rect x="47" y="62" width="6" height="14" rx="2" fill="#B58900"/></svg>),
+"🔬":(<svg viewBox="0 0 100 100" width="100%" height="100%" style={{display:"block"}}><defs><linearGradient id="apg26" x1="0%" y1="0%" x2="0%" y2="100%"><stop offset="0%" stopColor="#BF5AF2"/><stop offset="100%" stopColor="#8944AB"/></linearGradient></defs><rect x="6" y="6" width="88" height="88" rx="22" fill="url(#apg26)"/><rect x="44" y="18" width="14" height="28" rx="3" fill="#fff"/><circle cx="51" cy="48" r="7" fill="#fff"/><circle cx="51" cy="48" r="4" fill="#BF5AF2"/><rect x="36" y="54" width="28" height="6" rx="2" fill="#fff"/><rect x="28" y="64" width="46" height="12" rx="3" fill="#fff"/><rect x="22" y="78" width="58" height="6" rx="2" fill="#fff"/></svg>),
 "🗺":(<svg viewBox="0 0 100 100" width="100%" height="100%" style={{display:"block"}}><defs><radialGradient id="apg27" cx="50%" cy="40%"><stop offset="0%" stopColor="#1a4a7a"/><stop offset="100%" stopColor="#0a2540"/></radialGradient></defs><circle cx="50" cy="50" r="48" fill="url(#apg27)"/><path d="M20 26 L40 22 L60 28 L80 24 L80 74 L60 78 L40 72 L20 76 Z" fill="#f8f8fa" stroke="#a1a1a6" strokeWidth="1"/><path d="M40 22 L40 72 M60 28 L60 78" stroke="#8e8e93" strokeWidth="1"/><circle cx="50" cy="50" r="5" fill="#5ac8fa"/><path d="M50 50 L46 42 L54 42 Z" fill="#5ac8fa"/></svg>),
 "🚦":(<svg viewBox="0 0 100 100" width="100%" height="100%" style={{display:"block"}}><defs><radialGradient id="apg28" cx="50%" cy="40%"><stop offset="0%" stopColor="#1a4a7a"/><stop offset="100%" stopColor="#0a2540"/></radialGradient></defs><circle cx="50" cy="50" r="48" fill="url(#apg28)"/><rect x="38" y="20" width="24" height="62" rx="4" fill="#f8f8fa" stroke="#a1a1a6" strokeWidth="1"/><circle cx="50" cy="34" r="6" fill="#d12822"/><circle cx="50" cy="50" r="6" fill="#8a5a00"/><circle cx="50" cy="66" r="6" fill="#1f7a30"/></svg>),
 "🛰":(<svg viewBox="0 0 100 100" width="100%" height="100%" style={{display:"block"}}><defs><radialGradient id="apg29" cx="50%" cy="40%"><stop offset="0%" stopColor="#1a4a7a"/><stop offset="100%" stopColor="#0a2540"/></radialGradient></defs><circle cx="50" cy="50" r="48" fill="url(#apg29)"/><rect x="42" y="42" width="16" height="16" fill="#f8f8fa" stroke="#a1a1a6" strokeWidth="1"/><rect x="20" y="44" width="20" height="12" fill="#5ac8fa" stroke="#a1a1a6" strokeWidth="1"/><rect x="60" y="44" width="20" height="12" fill="#5ac8fa" stroke="#a1a1a6" strokeWidth="1"/><path d="M50 42 L50 26" stroke="#f8f8fa" strokeWidth="2"/><circle cx="50" cy="22" r="3" fill="#5ac8fa"/><path d="M38 28 Q50 18 62 28" fill="none" stroke="#5ac8fa" strokeWidth="1.5" strokeDasharray="2 2"/></svg>),
 "🖐":(<svg viewBox="0 0 100 100" width="100%" height="100%" style={{display:"block"}}><defs><radialGradient id="apg30" cx="50%" cy="40%"><stop offset="0%" stopColor="#1a4a7a"/><stop offset="100%" stopColor="#0a2540"/></radialGradient></defs><circle cx="50" cy="50" r="48" fill="url(#apg30)"/><path d="M32 56 L32 40 Q32 36 36 36 Q40 36 40 40 L40 22 Q40 18 44 18 Q48 18 48 22 L48 24 Q48 20 52 20 Q56 20 56 24 L56 26 Q56 22 60 22 Q64 22 64 26 L64 30 Q64 26 68 26 Q72 26 72 30 L72 60 C72 72 62 82 50 82 C40 82 32 76 32 68 Z" fill="#f8f8fa" stroke="#a1a1a6" strokeWidth="1"/><circle cx="52" cy="60" r="5" fill="#5ac8fa" opacity="0.6"/></svg>),
-"🩸":(<svg viewBox="0 0 100 100" width="100%" height="100%" style={{display:"block"}}><defs><radialGradient id="apg31" cx="50%" cy="40%"><stop offset="0%" stopColor="#1a4a7a"/><stop offset="100%" stopColor="#0a2540"/></radialGradient></defs><circle cx="50" cy="50" r="48" fill="url(#apg31)"/><path d="M50 18 C50 18 30 46 30 60 C30 72 39 82 50 82 C61 82 70 72 70 60 C70 46 50 18 50 18 Z" fill="#d12822" stroke="#a1a1a6" strokeWidth="1"/><ellipse cx="44" cy="52" rx="5" ry="10" fill="#ff6b6b" opacity="0.6"/></svg>),
-"🩹":(<svg viewBox="0 0 100 100" width="100%" height="100%" style={{display:"block"}}><defs><radialGradient id="apg32" cx="50%" cy="40%"><stop offset="0%" stopColor="#1a4a7a"/><stop offset="100%" stopColor="#0a2540"/></radialGradient></defs><circle cx="50" cy="50" r="48" fill="url(#apg32)"/><g transform="rotate(-30 50 50)"><rect x="20" y="40" width="60" height="20" rx="10" fill="#f8f8fa" stroke="#a1a1a6" strokeWidth="1"/><rect x="36" y="44" width="28" height="12" fill="#5ac8fa" opacity="0.8"/><circle cx="42" cy="48" r="1.5" fill="#0a2540"/><circle cx="50" cy="50" r="1.5" fill="#0a2540"/><circle cx="58" cy="52" r="1.5" fill="#0a2540"/></g></svg>),
+"🩸":(<svg viewBox="0 0 100 100" width="100%" height="100%" style={{display:"block"}}><defs><linearGradient id="apg31" x1="0%" y1="0%" x2="0%" y2="100%"><stop offset="0%" stopColor="#5AC8FA"/><stop offset="100%" stopColor="#0A84FF"/></linearGradient></defs><rect x="6" y="6" width="88" height="88" rx="22" fill="url(#apg31)"/><path d="M50 24 C50 24 32 50 32 62 C32 72 40 80 50 80 C60 80 68 72 68 62 C68 50 50 24 50 24 Z" fill="#fff"/><ellipse cx="44" cy="58" rx="4" ry="8" fill="#fff" opacity="0.4"/></svg>),
+"🩹":(<svg viewBox="0 0 100 100" width="100%" height="100%" style={{display:"block"}}><defs><linearGradient id="apg32" x1="0%" y1="0%" x2="0%" y2="100%"><stop offset="0%" stopColor="#FF375F"/><stop offset="100%" stopColor="#C70039"/></linearGradient></defs><rect x="6" y="6" width="88" height="88" rx="22" fill="url(#apg32)"/><g transform="rotate(-30 50 50)"><rect x="16" y="38" width="68" height="24" rx="12" fill="#fff"/><rect x="36" y="44" width="28" height="12" rx="2" fill="#FF375F" opacity="0.6"/><circle cx="42" cy="48" r="2" fill="#C70039"/><circle cx="50" cy="50" r="2" fill="#C70039"/><circle cx="58" cy="52" r="2" fill="#C70039"/></g></svg>),
 "🧽":(<svg viewBox="0 0 100 100" width="100%" height="100%" style={{display:"block"}}><defs><radialGradient id="apg33" cx="50%" cy="40%"><stop offset="0%" stopColor="#1a4a7a"/><stop offset="100%" stopColor="#0a2540"/></radialGradient></defs><circle cx="50" cy="50" r="48" fill="url(#apg33)"/><rect x="22" y="34" width="56" height="36" rx="4" fill="#f8f8fa" stroke="#a1a1a6" strokeWidth="1"/><rect x="22" y="34" width="56" height="18" rx="4" fill="#5ac8fa" opacity="0.6"/><circle cx="30" cy="44" r="2" fill="#0a2540" opacity="0.4"/><circle cx="40" cy="42" r="1.5" fill="#0a2540" opacity="0.4"/><circle cx="52" cy="46" r="2" fill="#0a2540" opacity="0.4"/><circle cx="62" cy="42" r="1.5" fill="#0a2540" opacity="0.4"/><circle cx="70" cy="46" r="2" fill="#0a2540" opacity="0.4"/><circle cx="32" cy="60" r="1.5" fill="#0a2540" opacity="0.4"/><circle cx="46" cy="62" r="1.5" fill="#0a2540" opacity="0.4"/><circle cx="58" cy="58" r="1.5" fill="#0a2540" opacity="0.4"/><circle cx="68" cy="62" r="1.5" fill="#0a2540" opacity="0.4"/></svg>),
 "📊":(<svg viewBox="0 0 100 100" width="100%" height="100%" style={{display:"block"}}><defs><radialGradient id="apg34" cx="50%" cy="40%"><stop offset="0%" stopColor="#1a4a7a"/><stop offset="100%" stopColor="#0a2540"/></radialGradient></defs><circle cx="50" cy="50" r="48" fill="url(#apg34)"/><rect x="22" y="22" width="56" height="60" rx="3" fill="#f8f8fa" stroke="#a1a1a6" strokeWidth="1"/><rect x="30" y="54" width="8" height="20" fill="#5ac8fa"/><rect x="42" y="44" width="8" height="30" fill="#5ac8fa"/><rect x="54" y="34" width="8" height="40" fill="#5ac8fa"/><rect x="66" y="50" width="8" height="24" fill="#5ac8fa"/><line x1="28" y1="28" x2="28" y2="78" stroke="#0a2540" strokeWidth="1.5"/><line x1="28" y1="78" x2="76" y2="78" stroke="#0a2540" strokeWidth="1.5"/></svg>)
 ,
@@ -2617,10 +2617,11 @@ const POS_CABECA_D={"h_temporal_d":[135,325],"h_auricular_d":[65,395]};
 const POS_MAO_D={md_palma:[200,345],md_dorso:[600,345],md_polegar:[70,275],md_indicador:[145,155],md_medio:[195,140],md_anelar:[245,155],md_minimo:[295,175],md_punho:[200,495]};
 // Mão E — polegar à dir (dorso e palma). Ordem mínimo→polegar da esq pra dir.
 const POS_MAO_E={me_dorso:[200,345],me_palma:[600,345],me_minimo:[95,175],me_anelar:[145,155],me_medio:[195,140],me_indicador:[245,155],me_polegar:[330,275],me_punho:[200,495]};
-// Pé D (pe-d.png): v1=sola D (esq), v2=peito D (dir). Dedão à esq em ambas vistas.
-const POS_PE_D={pd_planta:[190,235],pd_dorso:[590,225],pd_pl_calcanhar:[200,445],pd_calcanhar:[600,445],pd_tornoz:[200,355],pd_pl_dedao:[65,70],pd_dedao:[465,70],pd_pl_2dedo:[120,70],pd_2dedo:[520,70],pd_pl_3dedo:[160,70],pd_3dedo:[560,70],pd_pl_4dedo:[200,70],pd_4dedo:[600,70],pd_pl_mindinho:[245,75],pd_mindinho:[645,75]};
-// Pé E (pe-e.jpg): v1=peito E (esq), v2=sola E (dir). Dedão à esq em ambas vistas.
-const POS_PE_E={pe_dorso:[190,225],pe_planta:[590,235],pe_calcanhar:[200,445],pe_pl_calcanhar:[600,445],pe_tornoz:[200,355],pe_dedao:[65,70],pe_pl_dedao:[465,70],pe_2dedo:[120,70],pe_pl_2dedo:[520,70],pe_3dedo:[160,70],pe_pl_3dedo:[560,70],pe_4dedo:[200,70],pe_pl_4dedo:[600,70],pe_mindinho:[245,75],pe_pl_mindinho:[645,75]};
+// v262: POS dos pés atualizadas — v1 com dedão à direita (mín→dedão), v2 com dedão à esquerda (dedão→mín)
+// Pé D: v1=sola D, v2=peito D
+const POS_PE_D={pd_planta:[190,240],pd_dorso:[590,230],pd_pl_calcanhar:[200,445],pd_calcanhar:[600,445],pd_tornoz:[200,355],pd_pl_mindinho:[45,85],pd_pl_4dedo:[100,75],pd_pl_3dedo:[150,70],pd_pl_2dedo:[200,75],pd_pl_dedao:[267,80],pd_dedao:[457,80],pd_2dedo:[520,75],pd_3dedo:[570,70],pd_4dedo:[620,75],pd_mindinho:[675,85]};
+// Pé E: v1=peito E, v2=sola E
+const POS_PE_E={pe_dorso:[190,230],pe_planta:[590,240],pe_calcanhar:[200,445],pe_pl_calcanhar:[600,445],pe_tornoz:[200,355],pe_mindinho:[45,85],pe_4dedo:[100,75],pe_3dedo:[150,70],pe_2dedo:[200,75],pe_dedao:[267,80],pe_pl_dedao:[457,80],pe_pl_2dedo:[520,75],pe_pl_3dedo:[570,70],pe_pl_4dedo:[620,75],pe_pl_mindinho:[675,85]};
 // Detecta quais vistas têm feridas
 const has=(prefixes)=>woundsList.some(w=>prefixes.some(pr=>w.region&&w.region.startsWith(pr)));
 const hasFrente=has(["f_"]);
@@ -3183,52 +3184,54 @@ return(<svg viewBox="0 0 800 600" style={{width:"100%",maxWidth:760}}>
   // ══════════════════════════════════════════
   // SVGs DOS PÉS — Planta e Dorso (D e E)
   // ══════════════════════════════════════════
-// v260: FootSvg corrigido — em todas as 4 vistas o dedão fica à ESQUERDA da imagem.
-// Ordem uniforme da esquerda para direita: dedão, 2º, 3º, 4º, mínimo.
-// pe-d.png: v1=sola D, v2=peito D
-// pe-e.jpg: v1=peito E, v2=sola E
+// v262: FootSvg com novo padrão das imagens atualizadas.
+// PADRÃO IDÊNTICO em ambos os pés:
+//   v1 (lado esquerdo da imagem): dedão à DIREITA, ordem [esq→dir]: min, 4º, 3º, 2º, dedão
+//   v2 (lado direito da imagem):  dedão à ESQUERDA, ordem [esq→dir]: dedão, 2º, 3º, 4º, min
+// Pé D: v1=sola D, v2=peito D
+// Pé E: v1=peito E, v2=sola E
 const FootSvg=({side})=>{const p=side==="D"?"pd":"pe";const img=side==="D"?IMG_PE_D:IMG_PE_E;
-const v1plant=side==="D";
+const v1Plant=side==="D";
 return(<svg viewBox="0 0 800 550" style={{width:"100%",maxWidth:760}}>
 <image href={img} x="0" y="0" width="800" height="530" preserveAspectRatio="xMidYMid meet"/>
 <text x="400" y="546" textAnchor="middle" fontSize="16" fontWeight="800" fill="#333">PÉ {side} — sola + peito</text>
-{/* === Vista 1 (x≈0-400) === */}
-{v1plant?<>
-<Rg_ id={p+"_planta"} x={80} y={120} w={220} h={230} n="Planta" count={wc(p+"_planta")} onClick={aw}/>
-<Rg_ id={p+"_pl_calcanhar"} x={100} y={380} w={200} h={130} n="Calcanh." count={wc(p+"_pl_calcanhar")} onClick={aw}/>
-<Rg_ id={p+"_pl_dedao"} x={30} y={20} w={70} h={100} n="Dedão" count={wc(p+"_pl_dedao")} onClick={aw}/>
-<Rg_ id={p+"_pl_2dedo"} x={100} y={20} w={40} h={100} n="2º" count={wc(p+"_pl_2dedo")} onClick={aw}/>
-<Rg_ id={p+"_pl_3dedo"} x={140} y={20} w={40} h={100} n="3º" count={wc(p+"_pl_3dedo")} onClick={aw}/>
-<Rg_ id={p+"_pl_4dedo"} x={180} y={20} w={40} h={100} n="4º" count={wc(p+"_pl_4dedo")} onClick={aw}/>
-<Rg_ id={p+"_pl_mindinho"} x={220} y={30} w={50} h={90} n="5º" count={wc(p+"_pl_mindinho")} onClick={aw}/>
-</>:<>
-<Rg_ id={p+"_dorso"} x={80} y={120} w={220} h={210} n="Peito" count={wc(p+"_dorso")} onClick={aw}/>
-<Rg_ id={p+"_tornoz"} x={100} y={330} w={200} h={50} n="Tornoz." count={wc(p+"_tornoz")} onClick={aw}/>
-<Rg_ id={p+"_calcanhar"} x={100} y={380} w={200} h={130} n="Calcanh." count={wc(p+"_calcanhar")} onClick={aw}/>
-<Rg_ id={p+"_dedao"} x={30} y={20} w={70} h={100} n="Dedão" count={wc(p+"_dedao")} onClick={aw}/>
-<Rg_ id={p+"_2dedo"} x={100} y={20} w={40} h={100} n="2º" count={wc(p+"_2dedo")} onClick={aw}/>
-<Rg_ id={p+"_3dedo"} x={140} y={20} w={40} h={100} n="3º" count={wc(p+"_3dedo")} onClick={aw}/>
-<Rg_ id={p+"_4dedo"} x={180} y={20} w={40} h={100} n="4º" count={wc(p+"_4dedo")} onClick={aw}/>
-<Rg_ id={p+"_mindinho"} x={220} y={30} w={50} h={90} n="5º" count={wc(p+"_mindinho")} onClick={aw}/>
+{/* === Vista 1 (x=0-400) — dedão à DIREITA === */}
+{v1Plant?<>{/* sola D */}
+<Rg_ id={p+"_planta"} x={80} y={130} w={220} h={220} n="Planta" count={wc(p+"_planta")} onClick={aw}/>
+<Rg_ id={p+"_pl_calcanhar"} x={100} y={380} w={200} h={130} n="Calcanhar" count={wc(p+"_pl_calcanhar")} onClick={aw}/>
+<Rg_ id={p+"_pl_mindinho"} x={20} y={40} w={50} h={90} n="Mínimo" count={wc(p+"_pl_mindinho")} onClick={aw}/>
+<Rg_ id={p+"_pl_4dedo"} x={75} y={20} w={50} h={110} n="4º" count={wc(p+"_pl_4dedo")} onClick={aw}/>
+<Rg_ id={p+"_pl_3dedo"} x={125} y={10} w={50} h={120} n="3º" count={wc(p+"_pl_3dedo")} onClick={aw}/>
+<Rg_ id={p+"_pl_2dedo"} x={175} y={20} w={50} h={110} n="2º" count={wc(p+"_pl_2dedo")} onClick={aw}/>
+<Rg_ id={p+"_pl_dedao"} x={230} y={20} w={75} h={120} n="Dedão" count={wc(p+"_pl_dedao")} onClick={aw}/>
+</>:<>{/* peito E */}
+<Rg_ id={p+"_dorso"} x={80} y={130} w={220} h={200} n="Peito" count={wc(p+"_dorso")} onClick={aw}/>
+<Rg_ id={p+"_tornoz"} x={100} y={330} w={200} h={50} n="Tornozelo" count={wc(p+"_tornoz")} onClick={aw}/>
+<Rg_ id={p+"_calcanhar"} x={100} y={380} w={200} h={130} n="Calcanhar" count={wc(p+"_calcanhar")} onClick={aw}/>
+<Rg_ id={p+"_mindinho"} x={20} y={40} w={50} h={90} n="Mínimo" count={wc(p+"_mindinho")} onClick={aw}/>
+<Rg_ id={p+"_4dedo"} x={75} y={20} w={50} h={110} n="4º" count={wc(p+"_4dedo")} onClick={aw}/>
+<Rg_ id={p+"_3dedo"} x={125} y={10} w={50} h={120} n="3º" count={wc(p+"_3dedo")} onClick={aw}/>
+<Rg_ id={p+"_2dedo"} x={175} y={20} w={50} h={110} n="2º" count={wc(p+"_2dedo")} onClick={aw}/>
+<Rg_ id={p+"_dedao"} x={230} y={20} w={75} h={120} n="Dedão" count={wc(p+"_dedao")} onClick={aw}/>
 </>}
-{/* === Vista 2 (x≈400-800) === */}
-{v1plant?<>
-<Rg_ id={p+"_dorso"} x={480} y={120} w={220} h={210} n="Peito" count={wc(p+"_dorso")} onClick={aw}/>
-<Rg_ id={p+"_tornoz"} x={500} y={330} w={200} h={50} n="Tornoz." count={wc(p+"_tornoz")} onClick={aw}/>
-<Rg_ id={p+"_calcanhar"} x={500} y={380} w={200} h={130} n="Calcanh." count={wc(p+"_calcanhar")} onClick={aw}/>
-<Rg_ id={p+"_dedao"} x={430} y={20} w={70} h={100} n="Dedão" count={wc(p+"_dedao")} onClick={aw}/>
-<Rg_ id={p+"_2dedo"} x={500} y={20} w={40} h={100} n="2º" count={wc(p+"_2dedo")} onClick={aw}/>
-<Rg_ id={p+"_3dedo"} x={540} y={20} w={40} h={100} n="3º" count={wc(p+"_3dedo")} onClick={aw}/>
-<Rg_ id={p+"_4dedo"} x={580} y={20} w={40} h={100} n="4º" count={wc(p+"_4dedo")} onClick={aw}/>
-<Rg_ id={p+"_mindinho"} x={620} y={30} w={50} h={90} n="5º" count={wc(p+"_mindinho")} onClick={aw}/>
-</>:<>
-<Rg_ id={p+"_planta"} x={480} y={120} w={220} h={230} n="Planta" count={wc(p+"_planta")} onClick={aw}/>
-<Rg_ id={p+"_pl_calcanhar"} x={500} y={380} w={200} h={130} n="Calcanh." count={wc(p+"_pl_calcanhar")} onClick={aw}/>
-<Rg_ id={p+"_pl_dedao"} x={430} y={20} w={70} h={100} n="Dedão" count={wc(p+"_pl_dedao")} onClick={aw}/>
-<Rg_ id={p+"_pl_2dedo"} x={500} y={20} w={40} h={100} n="2º" count={wc(p+"_pl_2dedo")} onClick={aw}/>
-<Rg_ id={p+"_pl_3dedo"} x={540} y={20} w={40} h={100} n="3º" count={wc(p+"_pl_3dedo")} onClick={aw}/>
-<Rg_ id={p+"_pl_4dedo"} x={580} y={20} w={40} h={100} n="4º" count={wc(p+"_pl_4dedo")} onClick={aw}/>
-<Rg_ id={p+"_pl_mindinho"} x={620} y={30} w={50} h={90} n="5º" count={wc(p+"_pl_mindinho")} onClick={aw}/>
+{/* === Vista 2 (x=400-800) — dedão à ESQUERDA === */}
+{v1Plant?<>{/* peito D */}
+<Rg_ id={p+"_dorso"} x={480} y={130} w={220} h={200} n="Peito" count={wc(p+"_dorso")} onClick={aw}/>
+<Rg_ id={p+"_tornoz"} x={500} y={330} w={200} h={50} n="Tornozelo" count={wc(p+"_tornoz")} onClick={aw}/>
+<Rg_ id={p+"_calcanhar"} x={500} y={380} w={200} h={130} n="Calcanhar" count={wc(p+"_calcanhar")} onClick={aw}/>
+<Rg_ id={p+"_dedao"} x={420} y={20} w={75} h={120} n="Dedão" count={wc(p+"_dedao")} onClick={aw}/>
+<Rg_ id={p+"_2dedo"} x={495} y={20} w={50} h={110} n="2º" count={wc(p+"_2dedo")} onClick={aw}/>
+<Rg_ id={p+"_3dedo"} x={545} y={10} w={50} h={120} n="3º" count={wc(p+"_3dedo")} onClick={aw}/>
+<Rg_ id={p+"_4dedo"} x={595} y={20} w={50} h={110} n="4º" count={wc(p+"_4dedo")} onClick={aw}/>
+<Rg_ id={p+"_mindinho"} x={650} y={40} w={50} h={90} n="Mínimo" count={wc(p+"_mindinho")} onClick={aw}/>
+</>:<>{/* sola E */}
+<Rg_ id={p+"_planta"} x={480} y={130} w={220} h={220} n="Planta" count={wc(p+"_planta")} onClick={aw}/>
+<Rg_ id={p+"_pl_calcanhar"} x={500} y={380} w={200} h={130} n="Calcanhar" count={wc(p+"_pl_calcanhar")} onClick={aw}/>
+<Rg_ id={p+"_pl_dedao"} x={420} y={20} w={75} h={120} n="Dedão" count={wc(p+"_pl_dedao")} onClick={aw}/>
+<Rg_ id={p+"_pl_2dedo"} x={495} y={20} w={50} h={110} n="2º" count={wc(p+"_pl_2dedo")} onClick={aw}/>
+<Rg_ id={p+"_pl_3dedo"} x={545} y={10} w={50} h={120} n="3º" count={wc(p+"_pl_3dedo")} onClick={aw}/>
+<Rg_ id={p+"_pl_4dedo"} x={595} y={20} w={50} h={110} n="4º" count={wc(p+"_pl_4dedo")} onClick={aw}/>
+<Rg_ id={p+"_pl_mindinho"} x={650} y={40} w={50} h={90} n="Mínimo" count={wc(p+"_pl_mindinho")} onClick={aw}/>
 </>}
 </svg>);};
   // ══════════════════════════════════════════
